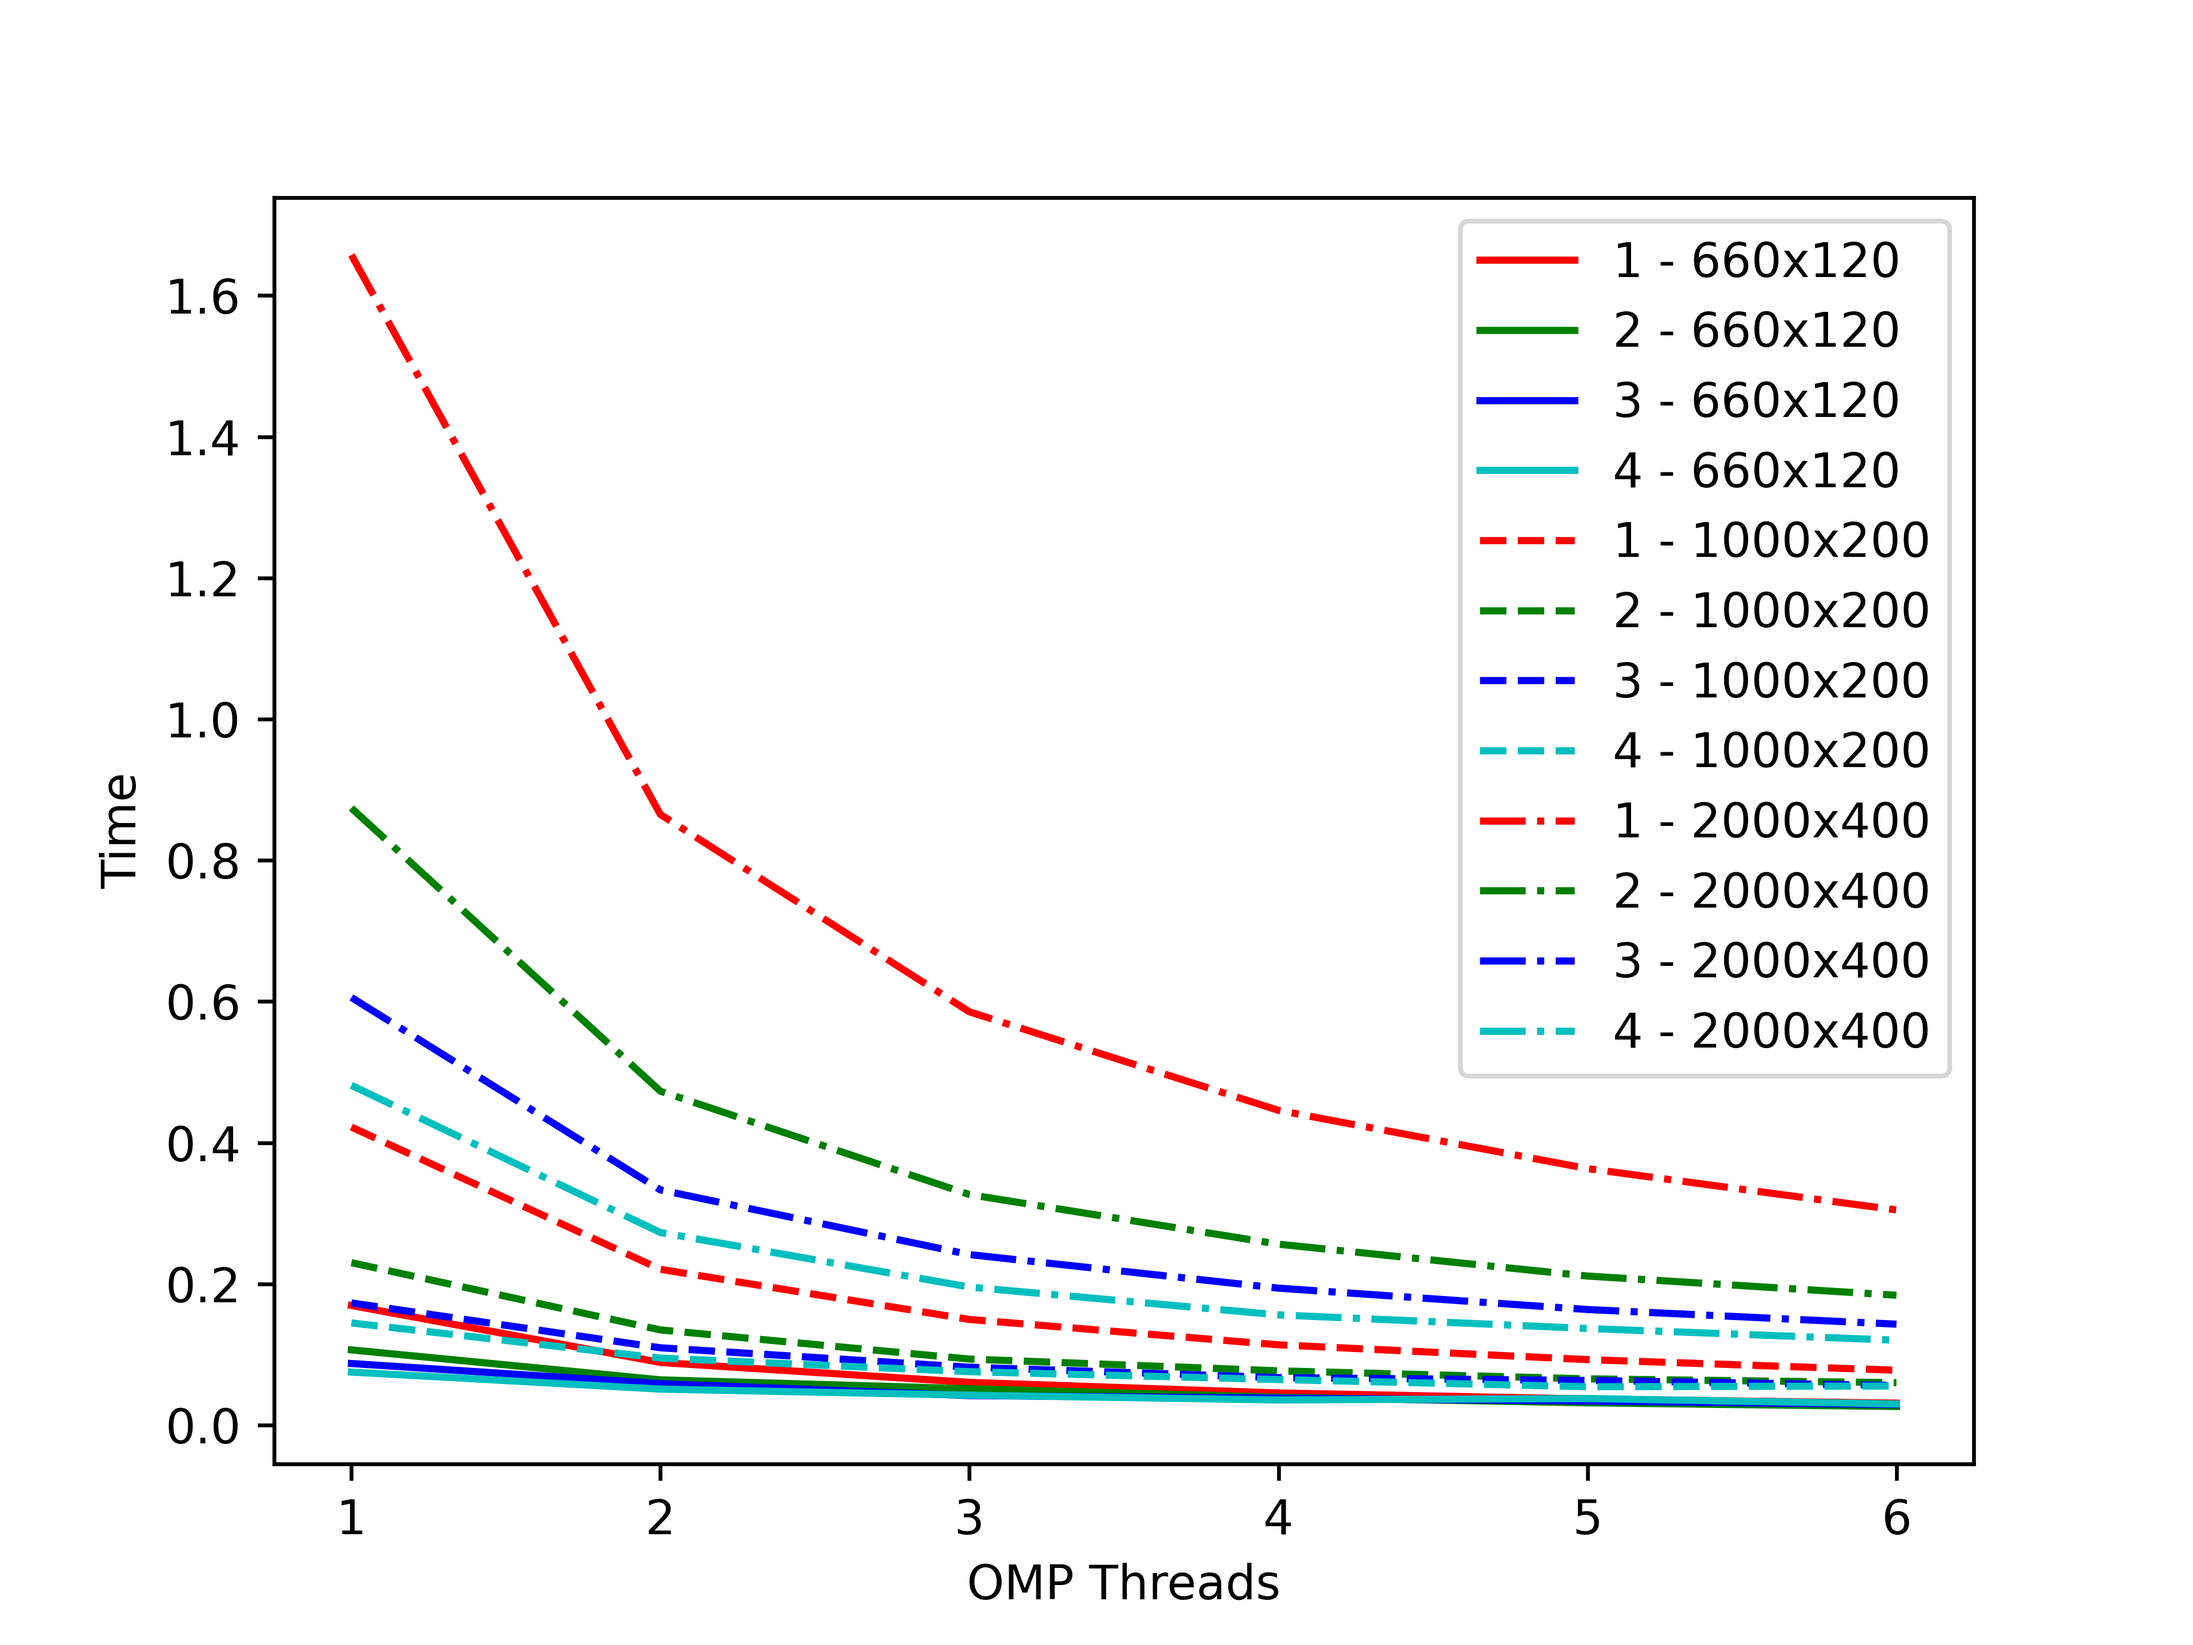
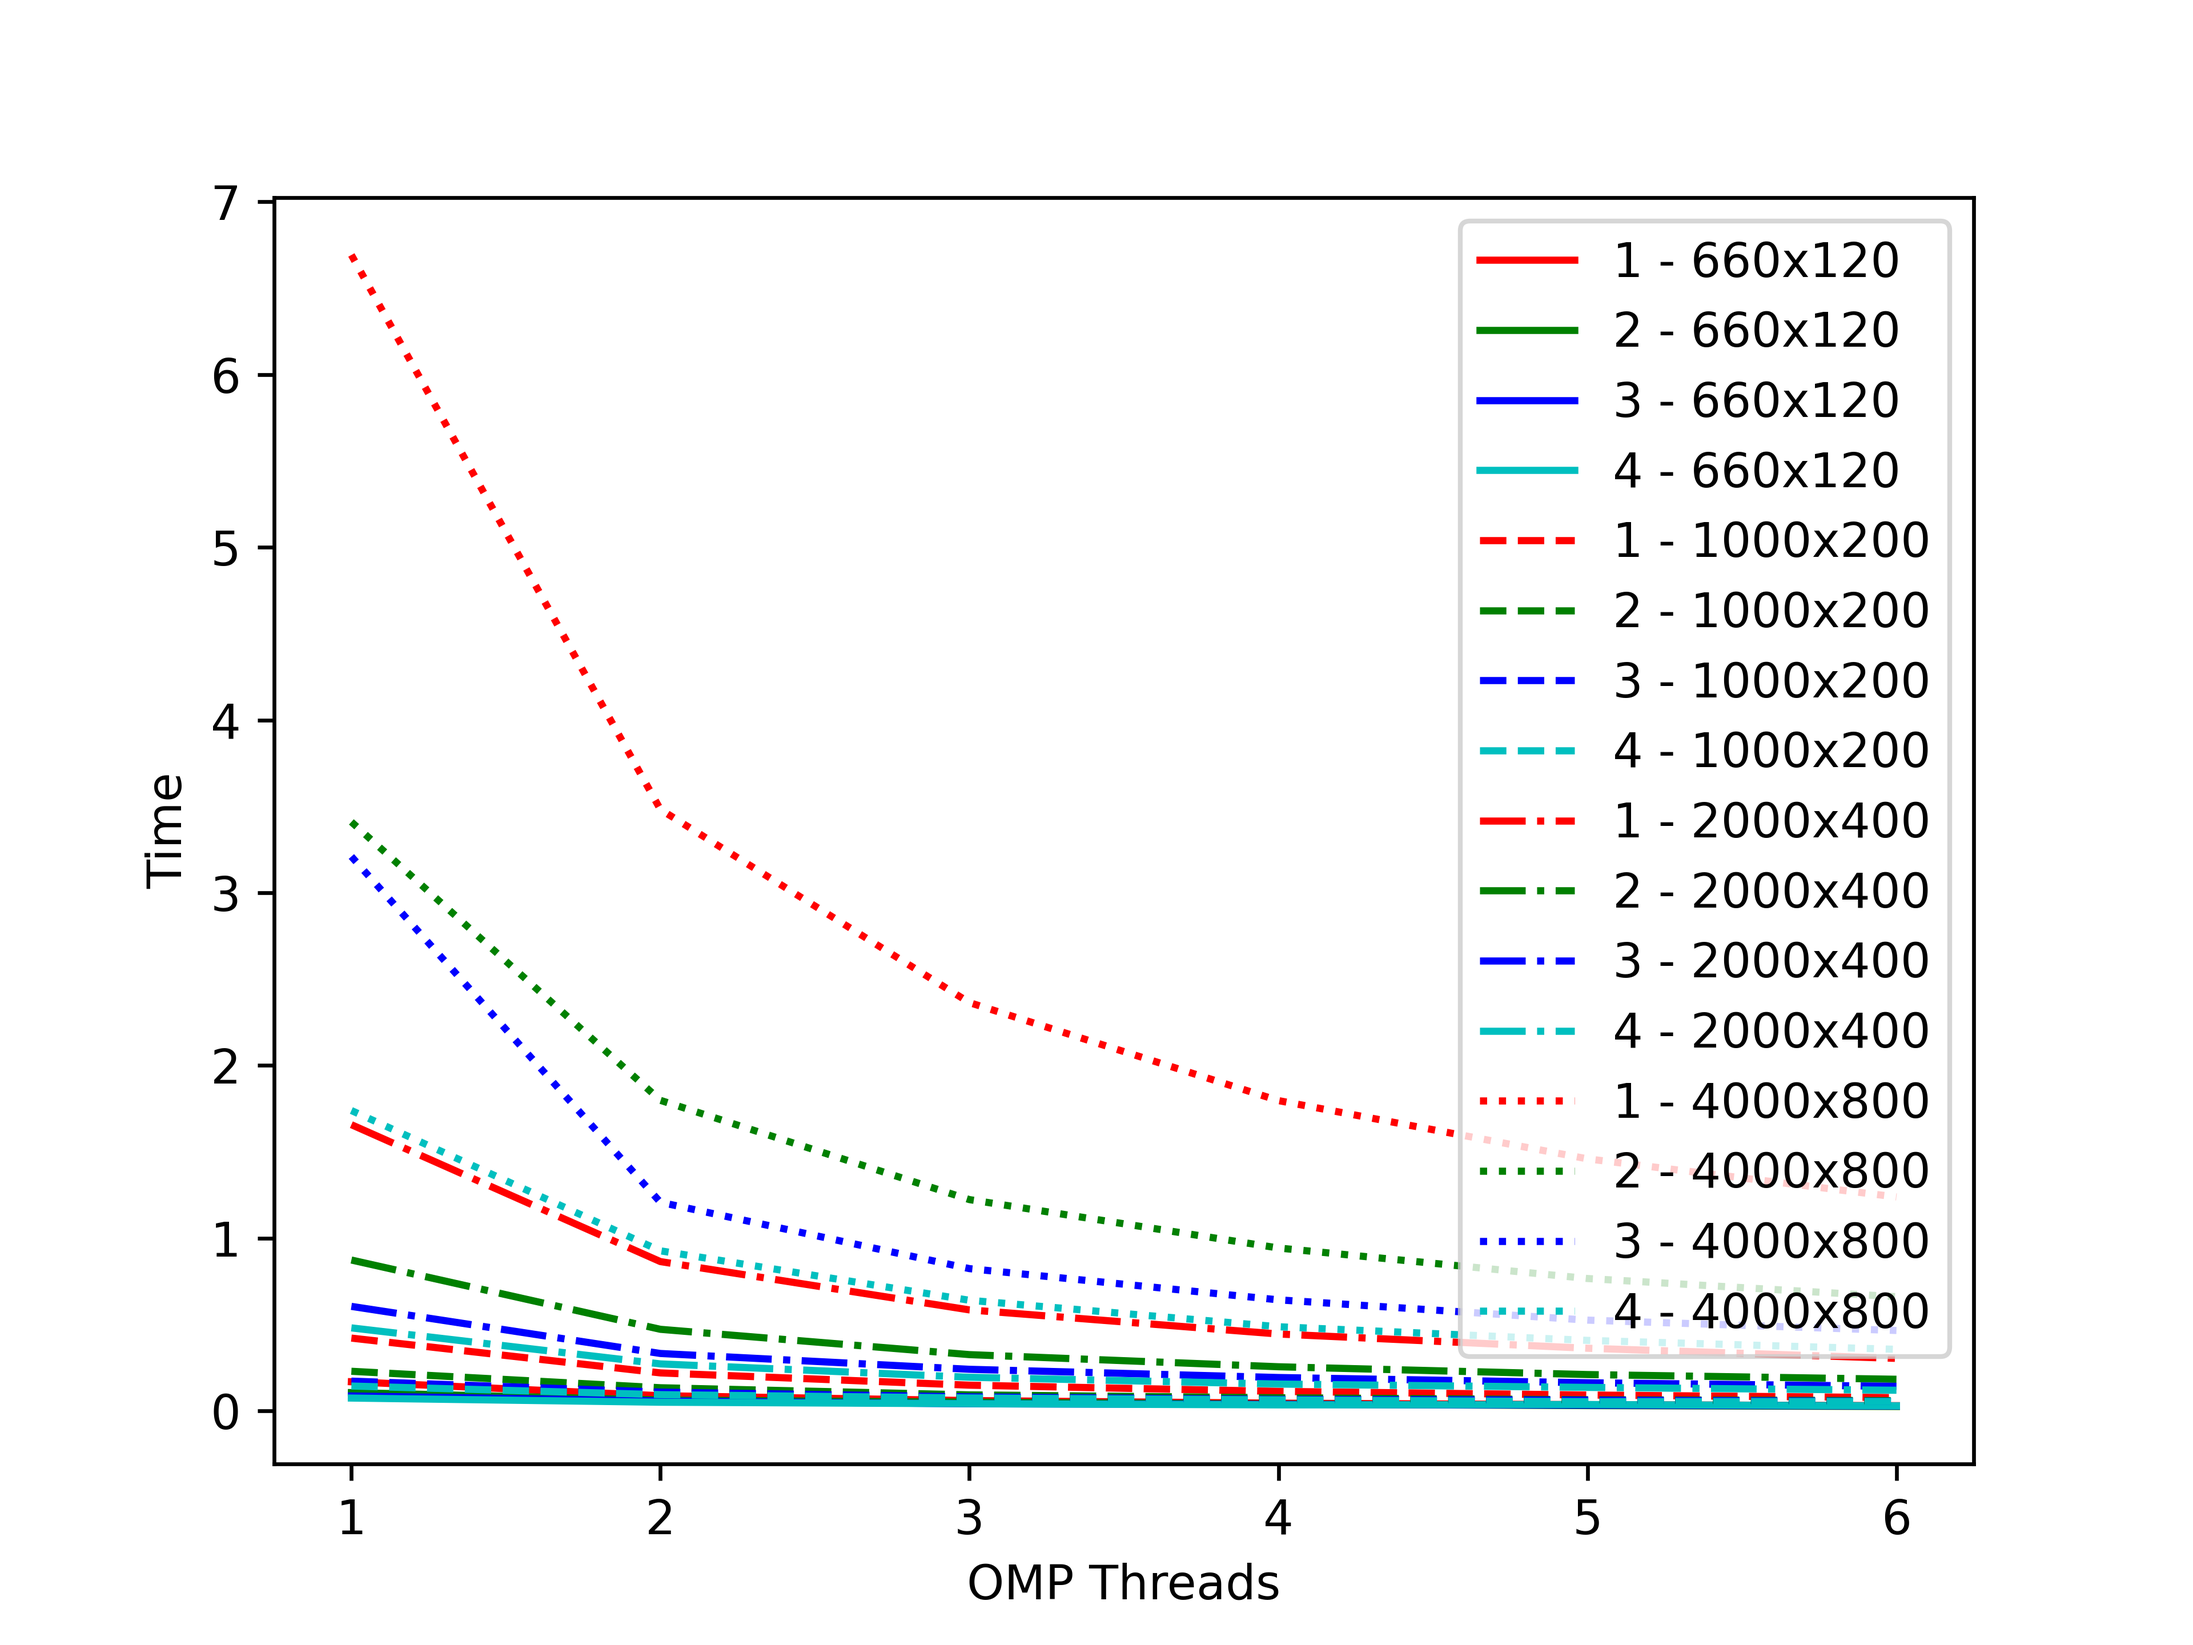
Fix a few things

diff --git a/cfd/analysis.py b/cfd/analysis.py
@@ -220,8 +220,8 @@ def plot_time_against_thread_count(all_df):
     df_par = df[df["omp_threads"] > 0]
     df_st = df[df["omp_threads"] == 0]
     # print(df)
-    colours = ["r", "g", "b", "c"]
-    line_styles = ["-", "--", "-."]
+    colours = ["r", "g", "b", "c", "m", "k", "y"]
+    line_styles = ["-", "--", "-.", ":"]
     for (x, y), line_style in zip(dimensions, line_styles):
         dim_df = df_par[df_par["x"] == x]
         dim_df = dim_df[dim_df["y"] == y]
@@ -241,8 +241,8 @@ def plot_speed_up_against_thread_count(all_df):
     df_par = df[df["omp_threads"] > 0]
     df_st = df[df["omp_threads"] == 0]
     # print(df)
-    colours = ["r", "g", "b", "c"]
-    line_styles = ["-", "--", "-."]
+    colours = ["r", "g", "b", "c", "m", "k", "y"]
+    line_styles = ["-", "--", "-.", ":", ":"]
     for (x, y), line_style in zip(dimensions, line_styles):
         df_st_dim = df_st[df_st["x"] == x]
         df_st_dim = df_st_dim[df_st_dim["y"] == y]
@@ -266,12 +266,12 @@ def plot_speed_up_against_dimensions(all_df):
     df_par = df[df["omp_threads"] > 0]
     df_st = df[df["omp_threads"] == 0]
     # print(df)
-    colours = ["r", "g", "b", "c"]
+    colours = ["r", "g", "b", "c", "m", "k", "y"]
     line_styles = ["-", "--", "-.", ":"]
     st_time_taken = np.array(df_st["loop_time_taken"])
     print(st_time_taken)
     fig, ax = plt.subplots(1,1)
-    for omp_threads, line_style in zip(df_par["omp_threads"].unique(), line_styles):
+    for omp_threads, line_style in zip([1, 2, 4, 6], line_styles):
         dim_df = df_par[df_par["omp_threads"] == omp_threads]
         for sbatch_nodes, colour in zip(dim_df["sbatch_nodes"].unique(), colours):
             node_df = dim_df[dim_df["sbatch_nodes"] == sbatch_nodes]
@@ -288,6 +288,6 @@ def plot_speed_up_against_dimensions(all_df):
 
 
 if __name__ == "__main__":
-    subprocess.run(["bash", "./clean_build.sh"])
-    collect_data()
+#    subprocess.run(["bash", "./clean_build.sh"])
+#    collect_data()
     plot_graphs()
